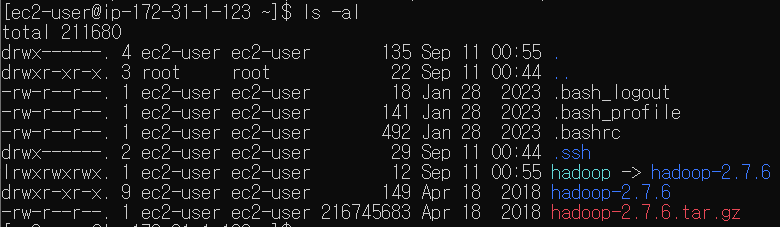
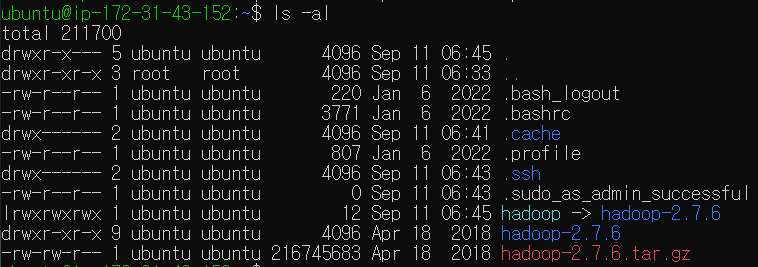
update: images in hdfs-on-ec2

Changed region(s): [[0.0, 0.1542, 1.0, 1.0], [0.0, 0.0, 0.4551, 0.5242]]

diff --git a/research/hadoop/hdfs-on-ec2.md b/research/hadoop/hdfs-on-ec2.md
@@ -4,6 +4,7 @@
 작성자: 김예진
 
 > **목차**
+>
 > 1. [Host에 localhost 추가](#host에-localhost-추가)
 >    1. [SSH key pairs 생성](#ssh-key-paris-생성)
 >    2. [Passwordless SHH 설정](#passwordless-shh-설정)
@@ -13,9 +14,10 @@
 >    2. [압축 해제 및 symbolic link 생성](#압축-해제-및-symbolic-link-생성)
 > 3. [하둡 초기 설정을 위한 자바 설치](#3-하둡-초기-설정을-위한-자바-설치)
 >    1. [사용 가능한 자바 버전 확인](#사용-가능한-자바-버전-확인)
->    2.  [jdk 설치](#jdk-설치)
+>    2. [jdk 설치](#jdk-설치)
 >    3. [Java 버전 확인](#java-버전-확인)
->    4. [JAVA_HOME 등록](#java_home-등록)
+>    4. [Java가 등록된 경로 확인](#java가-등록된-경로-확인)
+>    5. [JAVA_HOME 등록](#java_home-등록)
 > 4. [하둡 초기 설정](#4-하둡-초기-설정)
 >    1. [`etc/hadoop/hadoop-env.sh`에 HADOOP_HOME 환경변수 설정](#etchadoophadoop-envsh에-hadoop_home-환경변수-설정)
 >    2. [`etc/hadoop/core-site.xml`에서 기본 파일 시스템 URI 수정](#etchadoopcore-sitexml에서-기본-파일-시스템-uri-수정)
@@ -63,36 +65,39 @@
 
 # 3. 하둡 초기 설정을 위한 자바 설치
 
+[Hadoop Java Version](https://cwiki.apache.org/confluence/display/HADOOP/Hadoop+Java+Versions)을 참고하면 우리가 설치하려는 하둡의 버전(2.7.6)이 지원하는 자바 버전은 7과 8이다. 그러므로 jdk 설치 시 이 점에 유의해야 한다.
+
 1. ### 사용 가능한 자바 버전 확인
    ```bash
-   sudo yum list | grep correto
-   ```
-   혹은 
-   ```bash
-   sudo yum list | grep jdk
+   sudo apt list | grep jdk-8
    ```
    ![](images/hadoop03.PNG)
+
 2. ###  jdk 설치
    ```bash
-   sudo yum install java-17-amazon-corretto.x86_64
+   sudo apt-get update
+   sudo apt-get install openjdk-8-jdk
    ```
+
 3. ### Java 버전 확인
    ```bash
    java -version
    ```
    ![](images/hadoop04.PNG)
-4. `jps` 사용을 위한 ant 설치
 
+4. ### Java가 등록된 경로 확인
    ```bash
-   sudo yum install ant
+   readlink -f $(which java)
    ```
+   ![](images/hadoop09.PNG)
+
 5. ### JAVA_HOME 등록
 
    ```bash
    sudo vim /etc/profile
    ```
    ```shell
-   export JAVA_HOME=/usr/lib/jvm/java-17-openjdk
+   export JAVA_HOME=/usr/lib/jvm/java-8-openjdk-amd64/jre
    ```
    ```bash
    source /etc/profile
@@ -144,6 +149,7 @@
    ```
    ![](images/hadoop06.PNG)
    ```bash
+   sudo apt install net-tools
    sudo netstat -antup | grep LISTEN
    ```
    ![](images/hadoop07.PNG)
@@ -163,7 +169,7 @@
 1. ### HDFS에 user-specific directory 생성
 
    ```bash
-   bin/hadoop fs -mkdir -p /user/ec2-user
+   bin/hadoop fs -mkdir -p /user/<username>
    ```
 
 2. ### HDFS에 파일 업로드 해보기
@@ -171,8 +177,6 @@
    ```bash
    bin/hadoop fs -put NOTICE.txt input
    ```
-
-   
 
 # 기타. 하둡 관련
 
